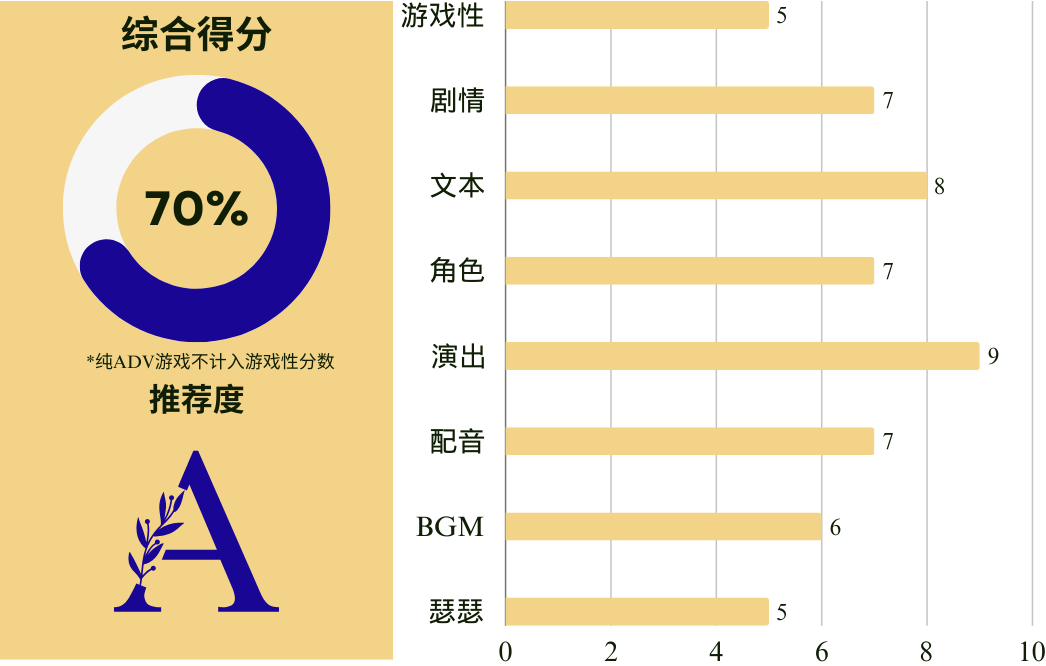
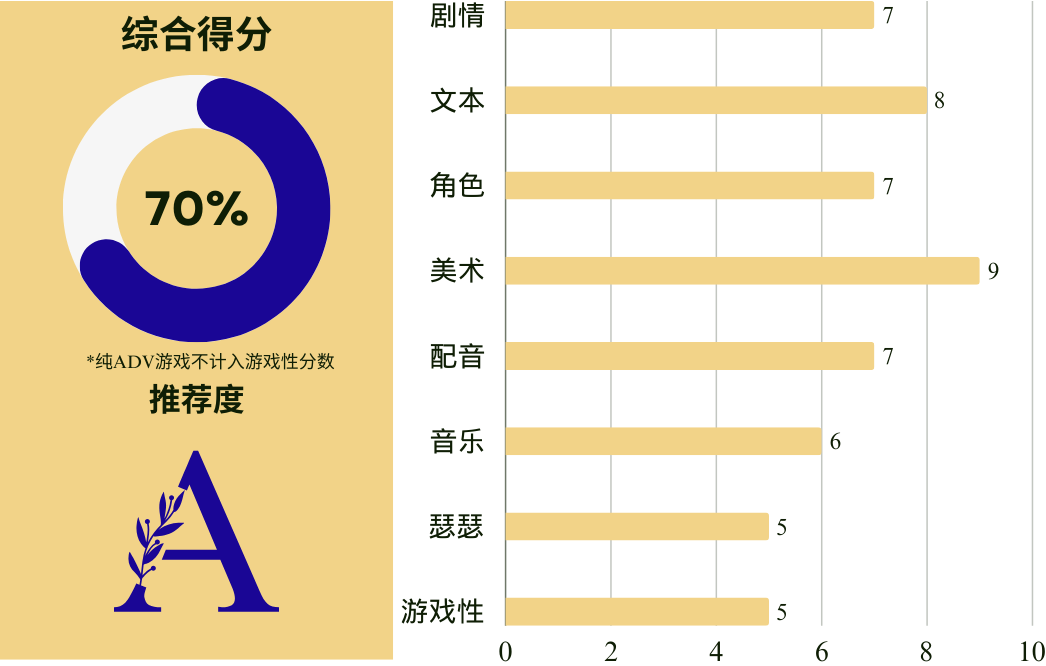
article updated

diff --git a/themes/butterfly/source/js/protect.js b/themes/butterfly/source/js/protect.js
@@ -10,7 +10,7 @@ window.onload = function() {
   window.onload = function() {
     // セッションストレージに「passwordEntered」がない場合のみパスワードを要求
     if (!sessionStorage.getItem("passwordEntered")) {
-      var password = prompt("パスワードを入力して:");
+      var password = prompt("パスワードを小文字で入力してね♫");
   
       if (password === "ltx") {
         // 正しいパスワードが入力された場合

diff --git a/source/_posts/Heart-of-the-Woods.md b/source/_posts/Heart-of-the-Woods.md
@@ -3,6 +3,7 @@ title: Heart of the Woods
 date: 2024-11-23 04:43:03
 tags: [English, 百合]
 description: 美国少女Vlogger二人组勇闯偏僻山村（？）
+top_image: /img/heart of the woods cover.jpg
 cover: /img/heart of the woods cover.jpg
 categories:
 - [视觉小说, 有分支]
@@ -16,6 +17,91 @@ categories:
     text-align: center;
   }
 </style>
+{% asset_img heart_of_the_woods_cover.jpg %}
 
 ## <p class="custom-title">总评</p>
 {% asset_img overview.png %}
+本作是欧美anime画风百合游戏大厂Studio Élan于2019年2月15日在Steam公开的百合黄油（虽然黄油部分需要去官网下载patch）。目前（2024年11月17日）在Steam上共有763条评论，评价为“好评如潮”，绝大多数是正面评价。日区售价1700日元，约和85元人民币，属于中低档价位。
+
+本作拥有极为精致的人物立绘，cg，ui以及画面演出。制作引擎使用较新的Renpy，并加入了大量自制演出和美术资源，视觉方面的游玩体验可以说是非常的赏心悦目。作为欧美百合游戏大厂的Studio Élan社相对较新的作品，某种意义上可以说是社团的集大成之作。
+
+游戏本身是传统的视觉小说，因此基本不存在游戏性的概念。游戏性评分不参与最终评价。
+
+## <p class="custom-title">无剧透剧情概要</p>
+故事的舞台是Eysenfeld，一个虚构的群山环绕，与世隔绝的寒冷的小村庄。主角是来自美国的一对好搭档，分别叫Maddie和Tara。她们作为Vlogger，一起经营一档名为“Taranormal”的灵异现象频道，并且在网上小有名气。Maddie负责视频剪辑等后期制作工作，而Tara则因为性格开朗健谈负责出镜表演。故事的开端从俩人乘坐火车前往孤僻山村Eysenfeld开始。
+
+两人之所以会乘坐十多个小时的飞机，又转火车，倒腾这么久跑去Eysenfeld，其实是有多重原因的。最大的原因是一位自称是她们频道多年老粉的少女Morgan给她们寄的fan letter，字里行间透漏出无比急迫的心情。据Morgan所说，Eysenfeld正在发生很多灵异的事情，并且Morgan承诺只要她们愿意来，住宿费和生活费她会全包。好奇心旺盛的Tara一听就按耐不住性子想去。而另一边，更加冷静并且比较早熟的Maddie已经开始考虑自己未来的职业规划，她觉得一直和Tara这么拍Vlog不是长远之计，而且迫于家里人和身边的压力，她打算最后陪Tara走一趟权当“毕业旅行”，然后就去考Media方向的大学专业。因此在开幕的火车上，两个人之间流淌着颇为尴尬的气氛。
+
+在火车到达Eysenfeld之后，Morgan如约而至迎接两人落脚。然而从抵达Eysenfeld的第一天开始，Maddie就感觉到很多不合乎常理的地方。小镇居民对待她们微妙的态度，Morgan一些奇葩的言行举止，还有镇长毫不掩饰的敌意，以及，**漆黑神秘的森林**和**与精灵相关的诡异传说**。
+
+一场改变主角两人，Morgan以及一位神奇的幽灵少女命运的，交杂着两代人的爱恨情仇，爱尔兰当地民间传说和黑童话底色的故事即将拉开帷幕。
+
+## <p class="custom-title">适合玩家群体</p>
+* 对硬核百合（指非轻百合/擦边百合）感兴趣的绅士淑女
+* 对LGBT要素几乎没有抵抗情绪的宽容的现代玩家
+* 对精灵等欧美童话故事要素感兴趣的玩家
+* 对想要重温经典的“和心意相通的伙伴一起挑战邪恶势力”类型剧情的玩家
+
+## <p class="custom-title">各项目评价</p>
+### 剧情
+在笔者看来，本作开篇的hook做的是非常优秀的。抛出的疑点和违和感让玩家非常在意真相到底是怎么回事。在故事的途中，主角一行人第一次真正意义上直面超自然现象时，尽管作为一个专门拍摄超自然现象的Vlogger，那种“活到今天为止一直坚信不疑的信念在一瞬间土崩瓦解”的冲击感描写的非常好，令人回味无穷。
+
+然而另一方面，从俯瞰的角度来审视本作剧情的话，不免发现其实故事本身的设定和走向还是比较Cliche且predictable的。不过好在出现这种感觉时已经是故事进行到中后期，所以也不至于无法忍受。对于玩了太多“邪典类”非主流视觉小说的玩家来说，可能这种王道的展开也未必是坏事？
+
+### 文本
+本作的英语贴近日常生活，同时情景描写也具备一定的文学性，对于人物神态，动作，心理的描写都很详实。总的来说对于非英语母语者而言也可以较为顺畅地阅读。因为时代设定在现代，而登场人物大多也是年轻人，所以没有过于生僻的语法或是词汇。
+
+### 角色
+**Maddie**是一个乍看之下有一点cynical的早熟女孩，文静，内敛，聪慧，重视私人空间，喜欢看电影，但必须和人打交道时也能做到言行得体。和大大咧咧自信放光芒的典型美式女孩Tara形成鲜明的对比，从这个角度来看，她们俩作为Vlog搭档可以说是起到了相辅相成的作用。
+{% asset_img madonthetrain.jpg %}
+{% blockquote %}
+驶向Eysenfeld的列车，无话可说的二人
+{% endblockquote %}
+
+
+**Tara...**
+{% asset_img taratalk1.jpg %}
+{% blockquote %}
+well that actually does sound like a brilliant idea
+{% endblockquote %}
+
+热血笨蛋，~~是trans~~，以上。
+
+{% asset_img taratalk2.jpg %}
+{% blockquote %}
+嗯，果然关于Tara没什么需要补充的（
+{% endblockquote %}
+
+{% asset_img morgan.jpg %}
+{% blockquote %}
+Morgan the best girl!!!
+{% endblockquote %}
+
+
+Taranormal多年老粉（自称），Eysenfeld镇长女儿**Morgan**。号称自己的猫会说话，写信的时候完全就是一副饭圈女孩的气势，实际见了面却意外地冷静（可能有点冷静过头了？）。明明容姿出众，而且脑子也很好使，不知为什么在Eysenfeld当地人的心目中好像印象不太好的样子？据本人所说，她除了自家猫猫，连能说几句真心话的朋友都没有。
+于笔者而言，其实在整个游戏通关后，反而是Morgan这个角色显得最有魅力。一想到她特殊的身世，独自承受和背负的一切，还有在特定结局中的不幸的遭遇，心情便难以平复，从某种意义上来说，就算为了Morgan这一个角色，这部游戏也有通关的价值。
+
+
+### 美术
+美术和演出是本作最优秀的部分。首先人物立绘质量很高，表情差分丰富，把人物的特性展现得很好，是挑不出毛病的商业级别美少女插画水准。至于演出，从各种流畅自然的动画特效到优美又兼具实用性的UI设计，整个游玩体验都是一场视觉盛宴和美的享受。背景CG也非常美丽，可以感受到制作组在美术方面的诚意。整体配色风格亦与作品主题浑然天成，没什么可以吹毛求疵的。
+### 配音
+一直到前几年为止，欧美出品的Visual Novel都少见完全配音的例子。本作在刚公开时其实也是没有配音的，后来通过众筹成功请到了配音人员，配音的效果非常自然，和人物的形象/性格基本没有违和感。尤其是Morgan的配音，把果断坚强略带疲惫，同时因为特殊成长环境而有一点点生硬的音质演绎的非常完美。让笔者不禁感叹，果然不管是日文还是英文游戏，优秀的配音都能给角色注入灵魂啊。
+
+但是......
+
+就算对待作品温厚善良如笔者，对于本作配音还是有一点不满必须要大声说出来。
+
+那就是H Scene <u>**全 都 没 有 配 音**</u>
+
+笔者也是成年人，当然能理解大人的世界是很复杂的，理解很多时候纯粹的艺术表达也会受到无聊的政治条款的限制，但是这真的很让人失望。
+
+所以恕笔者不能给本作配音打出太高的分数(bushi
+### 音乐
+本作的BGM以键盘和弦乐为主，整体风格为New Age，可以看出是为了贴近童话故事背景的choice。总的来说没有喧宾夺主，算是达成了BGM的基本要求。但Theme Song的bgm旋律写的过于贴着音阶爬，还是使用了6451超级常用和弦进行的自然小调，再加上前半部分转调之前颇为单调的节奏和律动，结果就是不可避免给听众带来一种“土土”的感觉。如果是个别BGM的话可能还好，但作为反复出现且有多个arrange版本的主题bgm，旋律让人觉得土在笔者看来还是比较致命的问题的。当然这说到底是个人音乐感受的问题，并不是说写的不好。
+### 瑟瑟
+瑟瑟部分的CG和其他CG相比毫不逊色，非常精美细致，但没有配音。笔者因为修行不足，在意识到这一事实后无能狂怒，彻底萎凋一整天，无力欣赏瑟瑟场景
+
+咳，好吧还是认真说俩句。本作瑟瑟均为百合纯爱，不用担心牛头人。场景描述篇幅较短，CG虽然精致但差分几乎没有，在笔者看来代入感不强。属于本作短板。当然，对于非拔作而言，瑟瑟的评价权重也没有那么高就是了。
+## <p class="custom-title">结语</p>
+从一场粉丝见面会开始的奇异之旅------青少年的成长，自我认知的苦闷还有友情与爱的力量。
+有时候重温一下这些亘古不变的经典主题，或许也不是件坏事？

diff --git a/source/_posts/彼女と彼女と私の七日.md b/source/_posts/彼女と彼女と私の七日.md
@@ -16,5 +16,74 @@ categories:
     text-align: center;
   }
 </style>
+{% asset_img kanojoto_cover.jpg %}
 
 ## <p class="custom-title">总评</p>
+{% asset_img kanojoto_overview.png %}
+本作是发源于2ch（现5ch）论坛同人黄油板的日本同人游戏社团Lilies Project于2011年3月11日公开的免费同人百合黄油。公开时游戏各方面极高的素质和完成度引发了网友的热烈关注和讨论，也被称为典型的「振り込めない詐欺」（“不让打钱诈骗”）。
+
+虽然本质是一款同人免费游戏，但出自商业画师400(アベ)様精致的CG，契合各类场景的丰富的BGM，还有引人入胜的剧情展开，令人眼前一亮的ADV演出，专业到位的声优配音，让这部作品就算是和商业作品放在一起比较也可以说是有过之而无不及。
+
+游戏本身是传统的视觉小说，因此基本不存在游戏性的概念。游戏性评分不参与最终评价。
+
+## <p class="custom-title">无剧透剧情概要</p>
+本作的故事发生在一所寄宿制女校。在这个世界里魔法的基本原理已经被解明，并作为一个基础学科发展壮大，融入了人们的日常生活中。故事舞台的女校学生们也都需要进修魔法相关课程。玩家扮演的女主叫折原絢子，是一位有些聒噪的活泼~~抖M~~少女，她同时也担任超自然现象研究部的部长。
+
+然而不幸的是，在魔法和科学高度发达的背景下，绝大多数学生都对可以被魔法学科以及魔族研究学科充分解释的曾经的“超自然现象”丧失了兴趣，社团里也只剩下女主一个光杆司令。但我们的女主絢子不仅可爱还很头铁，绝不愿意就这么束手就擒等待废部的命运。
+
+为了验证“学园七大不可思议现象”之一的“你们这些现充给我被马蹄子狠狠踹死吧”，她在窥视白富美大小姐好姬友網代杏奈房间时，发现好姬友居然在和自己不认识的女孩子激情补魔。同时因为这个偷窥行为，她还被一位性格非常良（恶）善（劣）的幽灵小姐青戸雅缠上了。然而絢子不知道的是，在临近学期末的接下来的7天里，她即将迎接一连串改变自己人生的重大事件和转折点。
+
+总的来说，这是一个关于友情，爱情，自我认知，亲子关系，成长和心理创伤，还有这个世界上最重大的秘密――**真正的超自然现象**和**幽灵**的故事。
+
+## <p class="custom-title">适合玩家群体</p>
+* 对硬核百合（指非轻百合）感兴趣的绅士淑女
+* 喜欢知名声优：秋山はるる的绅士淑女（女主絢子的CV）
+* 对抖M可爱女主接受百合调教的过程感兴趣的绅士淑女
+* 对青春期和成长的烦恼相关主题（coming of age/ジュブナイル）感兴趣的玩家
+* 对细致的人物心理描写感兴趣的玩家
+
+## <p class="custom-title">各项目评价</p>
+### 剧情
+如前文所述，这是一个关于成长烦恼和同性恋情愫的故事。虽然一开始因为女主很呆萌而且有些聒噪，可能会让人误以为是バカゲー（抽象搞笑游戏），但其实并非如此。剧情围绕魔法学校的女学生们展开，但充满了绵密的心理描写和细致的人际关系刻画，毫无疑问是一部值得沉浸式体验的优秀作品。突然出现的幽灵和她的前世今生，女主对挚友杏奈的复杂的感情，女主自身的过去，亲子关系，还有横跨上百年的人魔的种族隔阂，让这部作品拥有了足够的骨架和深度。
+
+### 文本
+本作的日语文本阅读体验通顺流畅，没有过多复杂的词汇，虽然偶尔会出现一些不常用的四字熟语如「牽強付会」，但总的来说不影响阅读体验。女主折原絢子和女二網代杏奈是多年老友，两人的默契也在日常对话中体现的淋漓尽致。从相性的角度来说，可以说她们的组合是某种意义上的“没头脑和不高兴”，一边是平时元气满满满嘴跑火车但一被逼到墙角就尽显抖M本色抱头蹲防的絢子，另一边是看似自以为是唯我独尊但其实内心善良体贴的傲娇大小姐杏奈，两人的台词无论是打情骂俏还是正式场合的对话都非常有味道，值得细品。
+
+### 角色
+女主**折原絢子**是外强中干的战5渣➕抖M。看似开朗活泼但其实因为过去的经历和成长环境，有诸多难言之隐，把杏奈视为最好的朋友。成绩普通，据本人所说长相也不算特别出众（~~上一个这么说的某位“随处可见的平凡乡村少女”好像已经担任日本少子化对策大臣了来着~~）
+{% asset_img ayako.jpg %}
+{% blockquote %}
+确实长得很抖M，让人有想暴虐的冲动（请自重
+{% endblockquote %}
+
+女二**網代杏奈**则是披着完美女强人皮的偏执狂和傲娇，因为绝大多数时候都是运筹帷幄胸有成竹的样子，所以偶尔破防的时候的反应非常可爱，值得细品。容姿端丽，文武双全，德高望重（~~炮友成群~~），和絢子吵架几乎没输过（这是什么很重要的情报吗？）
+{% asset_img anna.jpg %}
+{% blockquote %}
+金发傲娇大小姐，実家级的安心感
+{% endblockquote %}
+
+女三（二？）是一位长着一张大和抚子的脸但性格和大和抚子八杆子打不着边的幽灵小姐：**青戸雅**。自称偷窥是自己的终身事业并确实以行动证明了自己的宣言。总的来说是个言出必行的自信又有趣的女人（女幽灵？），因此她成功引起了絢子的注意。
+{% asset_img miyabi.jpg %}
+{% blockquote %}
+把大和抚子厨骗进去杀系列
+{% endblockquote %}
+
+### 美术
+美术和演出是这个游戏让人再次眼前一亮的部分。因为是很老的作品了，角色立绘的画风会复古一些。但就算用今天的目光来审视，也是非常精致优秀的立绘水平。再考虑到这是免费游戏，只能说还要什么自行车。
+关于演出，虽然本作使用的引擎是有些年头的吉里吉里，但无论是特效光影的演出还是充满个性的音效，都远远超过同一时期的大多数视觉小说游戏。说实话，哪怕到了2024年，有这么优秀且充满创意的演出的ADV，笔者见的也不多，如果要举一个最近的例子或许就是前俩年的黑马作品「ヘンタイ・プリズン」吧。
+
+### 配音
+笔者在第一次听到女主絢子的声音时就恋爱了，所以难以避免的会有一些滤镜。具体的音质很难用语言来形容，如果在意的话可以亲自下载游戏感受。只能说那种外强中干，得意洋洋但又有点小笨的感觉被声优拿捏的极好，哪怕是日常对话都会让人想一直听下去且高呼「絢子様！息子がいつもお世話になっております！」（お前は自重しろ）。
+
+咳，因为实在过于戳xp，笔者忍不住去查了声优，不查不知道，竟然是近年在Dlsite的同人音声届叱咤风云的秋山はるる大佬的马甲，只能说原来二次元的世界就是个闭环。以笔者愚见，光是秋山はるる様的配音，就足以成为通关这部作品的理由，何况其他方面也很优秀，可以说只要不对百合题材有排斥，这是毫无疑问的必玩作品了。
+
+女二，女三等其他重要角色的配音也非常优秀。虽然个别次要角色的配音有些许棒读感，但基本不影响游戏体验。
+
+### 音乐
+本作BGM的质量极高，数量多达20多首，全部为原创。无论是日常的轻快主题的音乐还是高潮时衬托气氛的音乐，抑或op和ed主题曲，作，编曲，混音方面都完全达到了商业作品的水准，既不喧宾夺主，也能让人有记忆点，就算是对音乐比较在意的笔者看来也几乎是无可挑剔的。
+
+### 瑟瑟
+如果一定要鸡蛋里挑骨头，硬要说这部作品存在什么短板的话，那或许就是瑟瑟吧。但希望大家不要误解笔者，本作的瑟瑟要素和场景一点都不“差”，只是说相对于其他维度来说并不能算特别突出。总的来说play的程度比较浅，可能无法满足重口味百合爱好者饥渴的心灵，但在优秀的文本和环环相扣的剧情体验中，当玩家自然而然带入角色后，能够获得的满足感绝非普通的拔作或是其他contents能够提供的。所以，绝对不是不瑟瑟，只能说瑟瑟并非本作绝对的重点，但仍然能使人旋转升天。
+
+## <p class="custom-title">结语</p>
+有笑有泪的百合学园青春成长物语，作为免费同人游戏令人难以置信的完成度和质量，这款10多年前像流星般突然出现的作品毫无疑问是特别且优秀的。诚心推荐给所有黄油/视觉小说游戏玩家。

diff --git a/source/_posts/ルフランの地下迷宮と魔女ノ旅団.md b/source/_posts/ルフランの地下迷宮と魔女ノ旅団.md
@@ -1,0 +1,6 @@
+---
+title: ルフランの地下迷宮と魔女ノ旅団
+cover: /img/refrain_cover.jpg
+date: 2019-03-02 01:11:45
+tags:
+---

diff --git a/source/_posts/STEINS-GATE.md b/source/_posts/STEINS-GATE.md
@@ -1,0 +1,6 @@
+---
+title: STEINS;GATE
+cover: /img/steins_cover.jpg
+date: 2018-12-02 01:15:36
+tags:
+---
